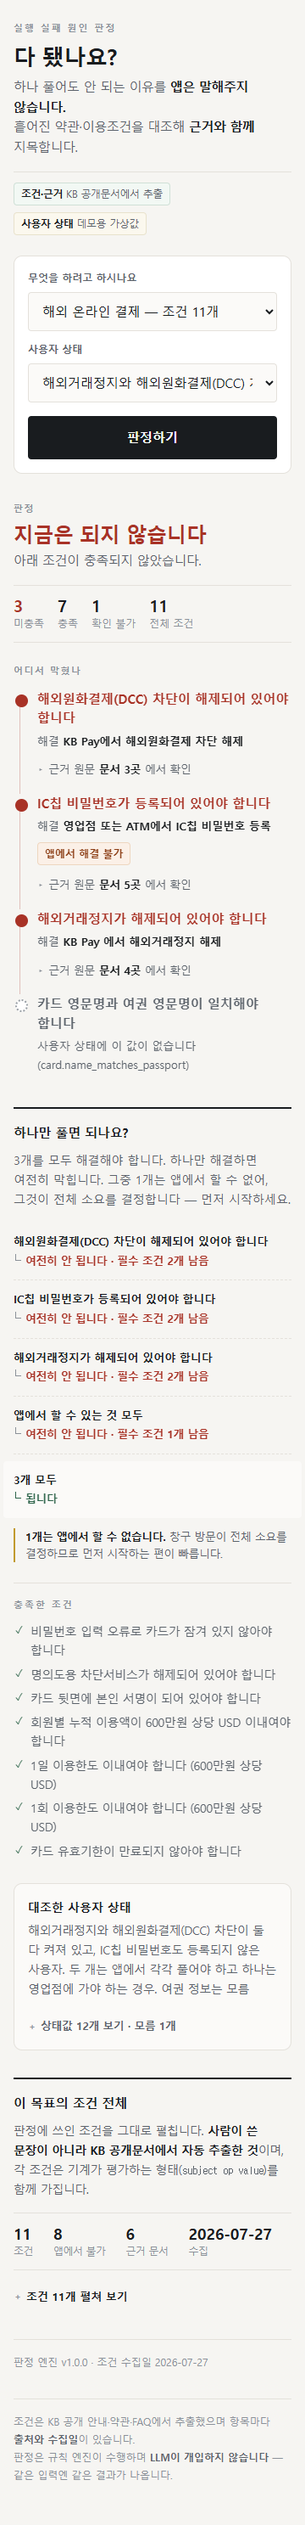
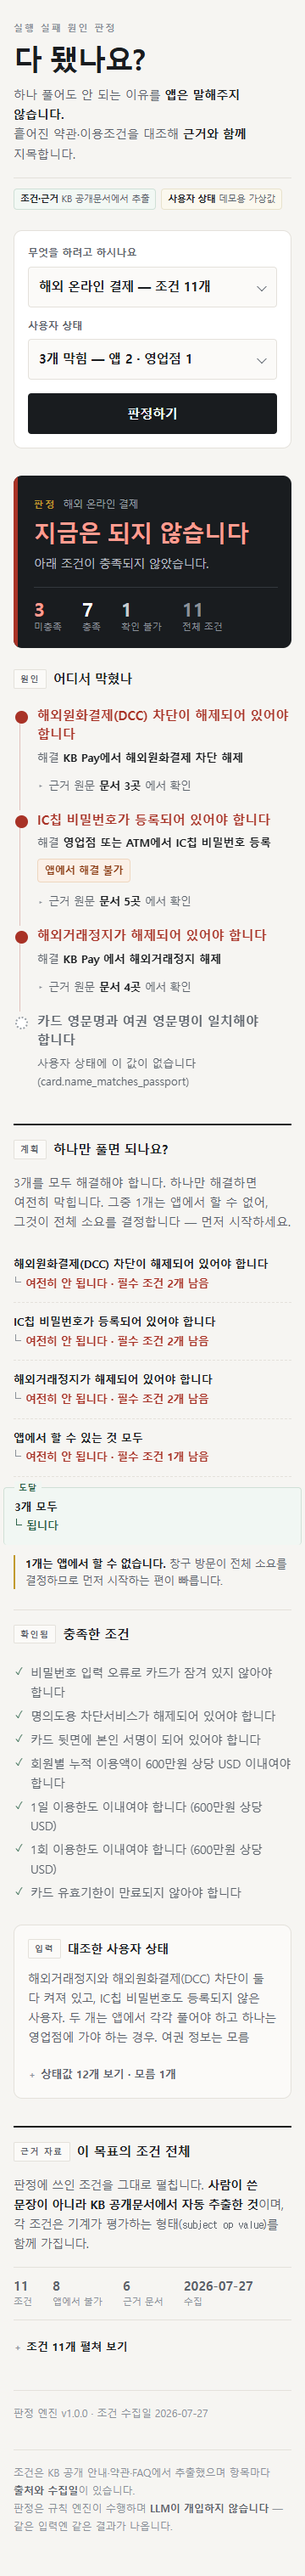
feat(web): 목표별 상태 필터 + 짧은 라벨 + 디자인 완성도
현찬 피드백 3건을 받았다.

1) 목표를 바꿔도 상태 목록이 그대로였다
   계좌개설 목표에 해외결제용 상태를 고르면 관련 정보가 없어 indeterminate 가
   나오는데, 데모에서는 혼란만 준다.
   프로필에 `goals` 를 넣고 화면이 걸러낸다.
   ★ 엔진은 어떤 조합이든 받는다 — 걸러내는 것은 화면의 일이다 (팀원 엣지 테스트도 그 조합을 쓴다)

2) 드롭다운 문장이 잘렸다
   설명문을 그대로 넣고 있었다. 프로필에 `short` 를 추가해 드롭다운에는 짧은 이름을,
   전체 설명은 '대조한 사용자 상태' 절에 그대로 보여준다.
     "3개 막힘 — 앱 2 · 영업점 1"  /  "안심차단 켜짐 (본인은 모름)"

3) 디자인이 미완성으로 읽혔다 — 절제와 미완성은 다르다. 세 곳을 고쳤다
   · **네이티브 select** 가 가장 큰 미완성 신호였다. appearance:none + CSS 로 화살표를
     다시 그리고, 높이·포커스 링을 갖췄다
   · **판정 블록**이 이 서비스의 결론인데 큰 글씨일 뿐이었다.
     문서 위에 찍힌 도장처럼 어두운 한 덩어리로 세우고, 좌측 바에 상태색을 넣고,
     집계를 그 안으로 넣었다. 대담함은 이 한 곳에만 쓴다
   · **섹션 6개가 전부 같은 무게**였다. 머리말에 무엇인지 라벨을 붙였다
     원인 / 계획 / 확인됨 / 입력 / 근거 자료 — 장식이 아니라 성격을 말한다
   · 사다리 도달 지점에 「도달」 표시. "여기까지 와야 끝난다"가 보이게
   · 헤더 h1 26 → 34px, 출처 배지를 한 줄로

검증 (브라우저)
- 360px / 1280px 가로 스크롤 0, 콘솔 에러 0
- 목표 전환 시 상태 목록·트리·판정이 함께 갱신됨
  계좌개설 → 상태 2종·조건 1개·"가능합니다"
  해외결제 → 상태 3종·조건 11개·"지금은 되지 않습니다"
- 섹션 제목 5개 위계 통일 확인 (겹치던 옛 .rail h3 규칙 제거)
- pytest 7 passed

diff --git a/web/style.css b/web/style.css
@@ -29,17 +29,20 @@ body{
   font-size:11px; letter-spacing:.18em; text-transform:uppercase;
   color:var(--ink-3); font-weight:700; margin-bottom:var(--s2);
 }
-h1{font-size:26px; line-height:1.25; letter-spacing:-.02em; font-weight:800}
-.sub{color:var(--ink-2); font-size:14.5px; margin-top:var(--s2)}
+h1{
+  font-size:34px; line-height:1.12; letter-spacing:-.045em; font-weight:800;
+  margin-top:2px;
+}
+.sub{color:var(--ink-2); font-size:14px; margin-top:var(--s3); line-height:1.65}
 .sub b{color:var(--ink); font-weight:700}
 
 /* 출처 고지 — 의심받을 것을 먼저 밝힌다 */
 .origin{
-  display:flex; gap:var(--s2); flex-wrap:wrap;
+  display:flex; gap:6px; flex-wrap:wrap;
   margin-top:var(--s4); padding-top:var(--s3); border-top:1px solid var(--rule);
 }
 .tag{
-  font-size:11.5px; padding:3px var(--s2); border-radius:var(--r-sm);
+  font-size:10.5px; padding:3px 7px; border-radius:var(--r-sm); white-space:nowrap;
   border:1px solid var(--rule); background:var(--surface); color:var(--ink-2);
 }
 .tag b{color:var(--ink)}
@@ -53,49 +56,86 @@ h1{font-size:26px; line-height:1.25; letter-spacing:-.02em; font-weight:800}
 }
 .field + .field{margin-top:var(--s3)}
 label{display:block; font-size:12px; color:var(--ink-2); margin-bottom:6px; font-weight:600}
-select{
-  width:100%; padding:11px var(--s3); font:inherit; font-size:15px;
-  border:1px solid var(--rule); border-radius:var(--r-sm);
-  background:var(--surface-2); color:var(--ink); min-height:44px;
+
+/* select 는 기본 모양이 그대로 보이면 화면 전체가 미완성으로 읽힌다.
+   화살표를 지우고 CSS 로 다시 그린다. */
+.sel{position:relative}
+.sel::after{
+  content:""; position:absolute; right:14px; top:50%; margin-top:-3px;
+  width:7px; height:7px; pointer-events:none;
+  border-right:1.5px solid var(--ink-2); border-bottom:1.5px solid var(--ink-2);
+  transform:rotate(45deg) translate(-1px,-1px);
 }
-select:focus-visible{outline:2px solid var(--mark); outline-offset:1px}
+select{
+  appearance:none; -webkit-appearance:none;
+  width:100%; min-height:46px; padding:11px 34px 11px var(--s3);
+  font:inherit; font-size:14.5px; font-weight:600; color:var(--ink);
+  background:var(--surface-2); border:1px solid var(--rule); border-radius:var(--r-sm);
+  cursor:pointer; text-overflow:ellipsis;
+}
+select:hover{border-color:var(--ink-3)}
+select:focus-visible{outline:2px solid var(--mark); outline-offset:1px; border-color:var(--ink-3)}
 button{
-  width:100%; margin-top:var(--s4); padding:13px; min-height:48px;
-  font:inherit; font-size:15px; font-weight:700; cursor:pointer;
-  border:0; border-radius:var(--r-sm); background:var(--ink); color:#fff;
+  width:100%; min-height:48px; margin-top:var(--s4);
+  font:inherit; font-size:15px; font-weight:700; letter-spacing:-.01em;
+  color:#fff; background:var(--ink); border:0; border-radius:var(--r-sm); cursor:pointer;
 }
 button:hover{background:#000}
 button:focus-visible{outline:2px solid var(--mark); outline-offset:2px}
 button[disabled]{opacity:.45; cursor:default}
 
-/* ── 판정 요약 ── */
-.verdict{margin:var(--s6) 0 var(--s5)}
-.verdict .line{
-  display:flex; align-items:baseline; gap:var(--s2);
-  font-size:11px; letter-spacing:.14em; font-weight:700; color:var(--ink-3);
-  text-transform:uppercase; margin-bottom:6px;
+/* ── 판정 — 이 서비스의 결론. 한 덩어리로 세운다 ────────────── */
+.verdict{
+  margin:var(--s6) 0 var(--s5); padding:var(--s5) var(--s4) var(--s4) var(--s5);
+  background:var(--ink); color:#fff; border-radius:var(--r-md);
+  position:relative; overflow:hidden;
 }
-.verdict h2{font-size:24px; line-height:1.3; letter-spacing:-.02em}
-.verdict p{color:var(--ink-2); font-size:14.5px; margin-top:var(--s1)}
-.v-blocked h2{color:var(--stop)}
-.v-ok h2{color:var(--pass)}
-.v-indeterminate h2{color:var(--ink-2)}
+.verdict::before{            /* 좌측 상태 바 — 결론의 성격을 색으로 */
+  content:""; position:absolute; left:0; top:0; bottom:0; width:5px; background:var(--hold);
+}
+.v-blocked::before{background:var(--stop)}
+.v-ok::before{background:var(--pass)}
+
+.v-head{display:flex; align-items:baseline; gap:var(--s2); flex-wrap:wrap}
+.v-kicker{
+  font-size:11px; letter-spacing:.2em; font-weight:700; color:var(--mark);
+}
+.v-goal{font-size:11.5px; color:#9aa0a6}
+.verdict h2{
+  margin-top:var(--s2); font-size:27px; line-height:1.25;
+  letter-spacing:-.03em; font-weight:800; color:#fff;
+}
+.v-blocked h2{color:#ff9d90}
+.v-ok h2{color:#8fd6b4}
+.verdict p{margin-top:var(--s2); font-size:13.5px; color:#b8bec4; line-height:1.6}
 
 .tally{
-  display:flex; gap:var(--s4); margin-top:var(--s4);
-  padding:var(--s3) 0; border-top:1px solid var(--rule); border-bottom:1px solid var(--rule);
+  display:flex; gap:var(--s5); flex-wrap:wrap;
+  margin-top:var(--s4); padding-top:var(--s3); border-top:1px solid #33383d;
 }
-.tally div{font-size:12px; color:var(--ink-3)}
-.tally b{display:block; font-size:19px; color:var(--ink); font-weight:800; line-height:1.2}
-.tally .n-stop b{color:var(--stop)}
+.tally div{font-size:11px; color:#8b9199}
+.tally b{
+  display:block; font-size:22px; color:#fff; font-weight:800; line-height:1.15;
+  font-variant-numeric:tabular-nums;
+}
+.tally span{display:block}
+.tally .n-stop b{color:#ff9d90}
+.tally .n-hold b{color:#c8ccd0}
+.tally .n-all b{color:#8b9199}
 
 /* ── 판정 레일 : 이 화면의 서명 ──
    조건이 세로선으로 이어지다가 막힌 지점에서 끊긴다.
    확인 불가 항목은 색을 주지 않고 점선으로 — 판단을 유보했음을 시각적 공백으로 표현. */
 .rail{margin-top:var(--s5)}
-.rail h3{
-  font-size:11px; letter-spacing:.14em; text-transform:uppercase;
-  color:var(--ink-3); font-weight:700; margin-bottom:var(--s3);
+h3 .eyebrow{
+  display:inline-block; margin-right:var(--s2); padding:2px 7px;
+  font-size:10px; letter-spacing:.14em; font-weight:700;
+  color:var(--ink-2); background:var(--surface-2);
+  border:1px solid var(--rule); border-radius:2px; vertical-align:2px;
+}
+.rail h3, .plan h3, .state h3, .asset h3, .met h3{
+  font-size:15px; font-weight:800; letter-spacing:-.02em;
+  color:var(--ink); text-transform:none; margin-bottom:var(--s3);
 }
 .node{position:relative; padding:0 0 var(--s4) 28px}
 .node::before{                      /* 세로 레일 */
@@ -199,12 +239,18 @@ blockquote cite{
   border-left:1px solid var(--ink-3); border-bottom:1px solid var(--ink-3);
 }
 .ladder .reach{
-  /* 도달 지점만 색을 바꾼다. 여기까지 와야 끝난다는 것을 한눈에 보이게. */
-  background:var(--surface-2); border-bottom:0;
-  margin:var(--s2) calc(var(--s3) * -1) 0;
+  /* 도달 지점. 여기까지 와야 끝난다는 것이 한눈에 보여야 한다. */
+  background:#f1f7f3; border:1px solid #cfe0d6; border-bottom:1px solid #cfe0d6;
+  margin:var(--s3) calc(var(--s3) * -1) 0;
   padding:var(--s3); border-radius:var(--r-sm);
+  position:relative;
 }
-.ladder .reach .scope{font-weight:700}
+.ladder .reach::before{
+  content:"도달"; position:absolute; top:-8px; left:var(--s3);
+  font-size:9.5px; letter-spacing:.14em; font-weight:800; color:var(--pass);
+  background:#f1f7f3; padding:0 5px;
+}
+.ladder .reach .scope{font-weight:800}
 .ladder .reach .result{color:var(--pass)}
 .ladder .reach .result::before{border-color:var(--pass)}
 
@@ -238,8 +284,11 @@ details summary b{ color:var(--ink); font-weight:700 }
   margin:var(--s4) 0 var(--s3); padding:var(--s3) 0;
   border-top:1px solid var(--rule); border-bottom:1px solid var(--rule);
 }
-.t-stat div{font-size:11.5px; color:var(--ink-3)}
-.t-stat b{display:block; font-size:18px; color:var(--ink); font-weight:800; line-height:1.25}
+.t-stat div{font-size:11px; color:var(--ink-3)}
+.t-stat b{
+  display:block; font-size:15px; color:var(--ink-2); font-weight:700; line-height:1.3;
+  font-variant-numeric:tabular-nums;
+}
 
 .t-open > summary{
   cursor:pointer; font-size:13px; font-weight:700; color:var(--ink);

diff --git a/web/app.js b/web/app.js
@@ -59,7 +59,7 @@ function planSection(plan){
        창구 방문이 전체 소요를 결정하므로 먼저 시작하는 편이 빠릅니다.</p>` : "";
 
   return `<section class="plan">
-    <h3>하나만 풀면 되나요?</h3>
+    <h3><span class="eyebrow">계획</span>하나만 풀면 되나요?</h3>
     <p class="lede">${esc(plan.summary)}</p>
     ${rows ? `<ul class="ladder">${rows}</ul>` : ""}
     ${visit}
@@ -92,7 +92,7 @@ function stateSection(prof){
     .flatMap(g => Object.values(prof[g] || {}));
   const unknown = all.filter(v => v === null || v === undefined).length;
   return `<section class="state">
-    <h3>대조한 사용자 상태</h3>
+    <h3><span class="eyebrow">입력</span>대조한 사용자 상태</h3>
     <p class="lede">${esc(prof.description)}</p>
     <details><summary>상태값 ${all.length}개 보기${unknown ? ` · 모름 ${unknown}개` : ""}</summary>
       <table class="st"><tbody>${stateRows(prof)}</tbody></table>
@@ -164,7 +164,7 @@ function treeSection(tree){
 
   const appOff = tree.conditions.filter(c => !c.remedy.actionable_in_app).length;
   return `<section class="asset">
-    <h3>이 목표의 조건 전체</h3>
+    <h3><span class="eyebrow">근거 자료</span>이 목표의 조건 전체</h3>
     <p class="lede">판정에 쓰인 조건을 그대로 펼칩니다.
       <b>사람이 쓴 문장이 아니라 KB 공개문서에서 자동 추출한 것</b>이며,
       각 조건은 기계가 평가하는 형태(<code>subject op value</code>)를 함께 가집니다.</p>
@@ -187,19 +187,24 @@ function render(v, plan, tree, prof){
   const total = v.unmet.length + v.met.length + v.unknown.length;
   const lowById = new Map(v.low_confidence.map(r => [r.id, r]));
 
+  // 판정은 이 서비스의 결론이다. 문서 위에 찍힌 도장처럼 한 덩어리로 세운다.
   let h = `<section class="verdict ${t.cls}">
-      <div class="line">${t.kicker}</div>
-      <h2>${t.title}</h2><p>${t.desc}</p>
+      <div class="v-head">
+        <span class="v-kicker">${t.kicker}</span>
+        <span class="v-goal">${esc(v.goal_label)}</span>
+      </div>
+      <h2>${t.title}</h2>
+      <p>${t.desc}</p>
       <div class="tally">
-        <div class="n-stop"><b>${v.unmet.length}</b>미충족</div>
-        <div><b>${v.met.length}</b>충족</div>
-        ${v.unknown.length ? `<div><b>${v.unknown.length}</b>확인 불가</div>` : ""}
-        <div><b>${total}</b>전체 조건</div>
+        <div class="n-stop"><b>${v.unmet.length}</b><span>미충족</span></div>
+        <div><b>${v.met.length}</b><span>충족</span></div>
+        ${v.unknown.length ? `<div class="n-hold"><b>${v.unknown.length}</b><span>확인 불가</span></div>` : ""}
+        <div class="n-all"><b>${total}</b><span>전체 조건</span></div>
       </div>
     </section>`;
 
   if(v.unmet.length || v.unknown.length){
-    h += `<section class="rail"><h3>어디서 막혔나</h3>
+    h += `<section class="rail"><h3><span class="eyebrow">원인</span>어디서 막혔나</h3>
       ${v.unmet.map(r => node(r, "stop")).join("")}
       ${v.unknown.map(r => node(r, "hold")).join("")}</section>`;
   }
@@ -214,7 +219,7 @@ function render(v, plan, tree, prof){
         ? `<li class="interp">${esc(r.label)}<em>${esc(low.reason || "근거 해석이 개입함")}</em></li>`
         : `<li>${esc(r.label)}</li>`;
     }).join("");
-    h += `<section class="met"><h3 class="eyebrow">충족한 조건</h3><ul>${rows}</ul></section>`;
+    h += `<section class="met"><h3><span class="eyebrow">확인됨</span>충족한 조건</h3><ul>${rows}</ul></section>`;
   }
 
   h += stateSection(prof);
@@ -257,15 +262,30 @@ async function judge(){
     ]);
     $("#goal").innerHTML = goals.map(g =>
       `<option value="${esc(g.goal_id)}">${esc(g.goal_label)} — 조건 ${g.condition_count}개</option>`).join("");
-    $("#profile").innerHTML = profiles.map(p =>
-      `<option value="${esc(p.profile_id)}">${esc(p.description || p.profile_id)}</option>`).join("");
-    // 데모는 빈 화면으로 두지 않는다. 첫 화면에 판정 결과가 이미 보이게 한다.
-    // 어느 조합을 보여줄지는 프로필 데이터(demo_goal)가 정한다.
-    const featured = profiles.find(p => p.demo_goal);
-    if(featured){
-      $("#goal").value = featured.demo_goal;
-      $("#profile").value = featured.profile_id;
+
+    // 목표에 맞는 상태만 보여준다. 계좌개설 목표에 해외결제용 상태를 고르면
+    // 관련 정보가 없어 indeterminate 가 나오는데, 데모에서는 혼란만 준다.
+    // (엔진은 어떤 조합이든 받는다 — 걸러내는 것은 화면의 일이다)
+    function fillProfiles(goalId, keep){
+      const list = profiles.filter(p => !p.goals.length || p.goals.includes(goalId));
+      $("#profile").innerHTML = list.map(p =>
+        `<option value="${esc(p.profile_id)}">${esc(p.short || p.profile_id)}</option>`).join("");
+      if(keep && list.some(p => p.profile_id === keep)) $("#profile").value = keep;
     }
+
+    // 데모는 빈 화면으로 두지 않는다. 첫 화면에 판정 결과가 이미 보이게 한다.
+    // 어느 조합을 보여줄지는 프로필 데이터가 정한다.
+    const featured = profiles.find(p => p.demo_default) || profiles[0];
+    $("#goal").value = featured.goals[0] || goals[0].goal_id;
+    fillProfiles($("#goal").value, featured.profile_id);
+
+    // 목표를 바꾸면 상태 목록도 함께 바뀐다
+    $("#goal").addEventListener("change", () => {
+      fillProfiles($("#goal").value);
+      judge();
+    });
+    $("#profile").addEventListener("change", judge);
+
     await judge();
   }catch{
     $("#out").innerHTML = `<div class="err">서버에 연결하지 못했습니다. <code>uvicorn src.api.main:app</code> 가 실행 중인지 확인해 주세요.</div>`;

diff --git a/web/index.html b/web/index.html
@@ -21,11 +21,11 @@
   <div class="panel">
     <div class="field">
       <label for="goal">무엇을 하려고 하시나요</label>
-      <select id="goal"></select>
+      <div class="sel"><select id="goal"></select></div>
     </div>
     <div class="field">
       <label for="profile">사용자 상태</label>
-      <select id="profile"></select>
+      <div class="sel"><select id="profile"></select></div>
     </div>
     <button id="run">판정하기</button>
   </div>

diff --git a/src/api/main.py b/src/api/main.py
@@ -70,9 +70,13 @@ def list_profiles() -> list[dict]:
         prof = load_profile(p)
         out.append({
             "profile_id": prof.profile_id,
+            # 드롭다운은 폭이 좁다. 설명문을 넣으면 잘리므로 짧은 이름을 따로 둔다.
+            "short": getattr(prof, "short", prof.profile_id),
             "description": prof.description,
-            # 데모를 열었을 때 처음 보여줄 조합. 화면이 id 를 추측하지 않도록 데이터로 지정한다.
-            "demo_goal": getattr(prof, "demo_goal", None),
+            # 이 상태로 판정하는 것이 의미 있는 목표. 화면이 목록을 걸러내는 데 쓴다.
+            # (엔진은 어떤 조합이든 받는다 — 걸러내는 것은 화면의 일이다)
+            "goals": getattr(prof, "goals", []),
+            "demo_default": bool(getattr(prof, "demo_default", False)),
         })
     return out
 
